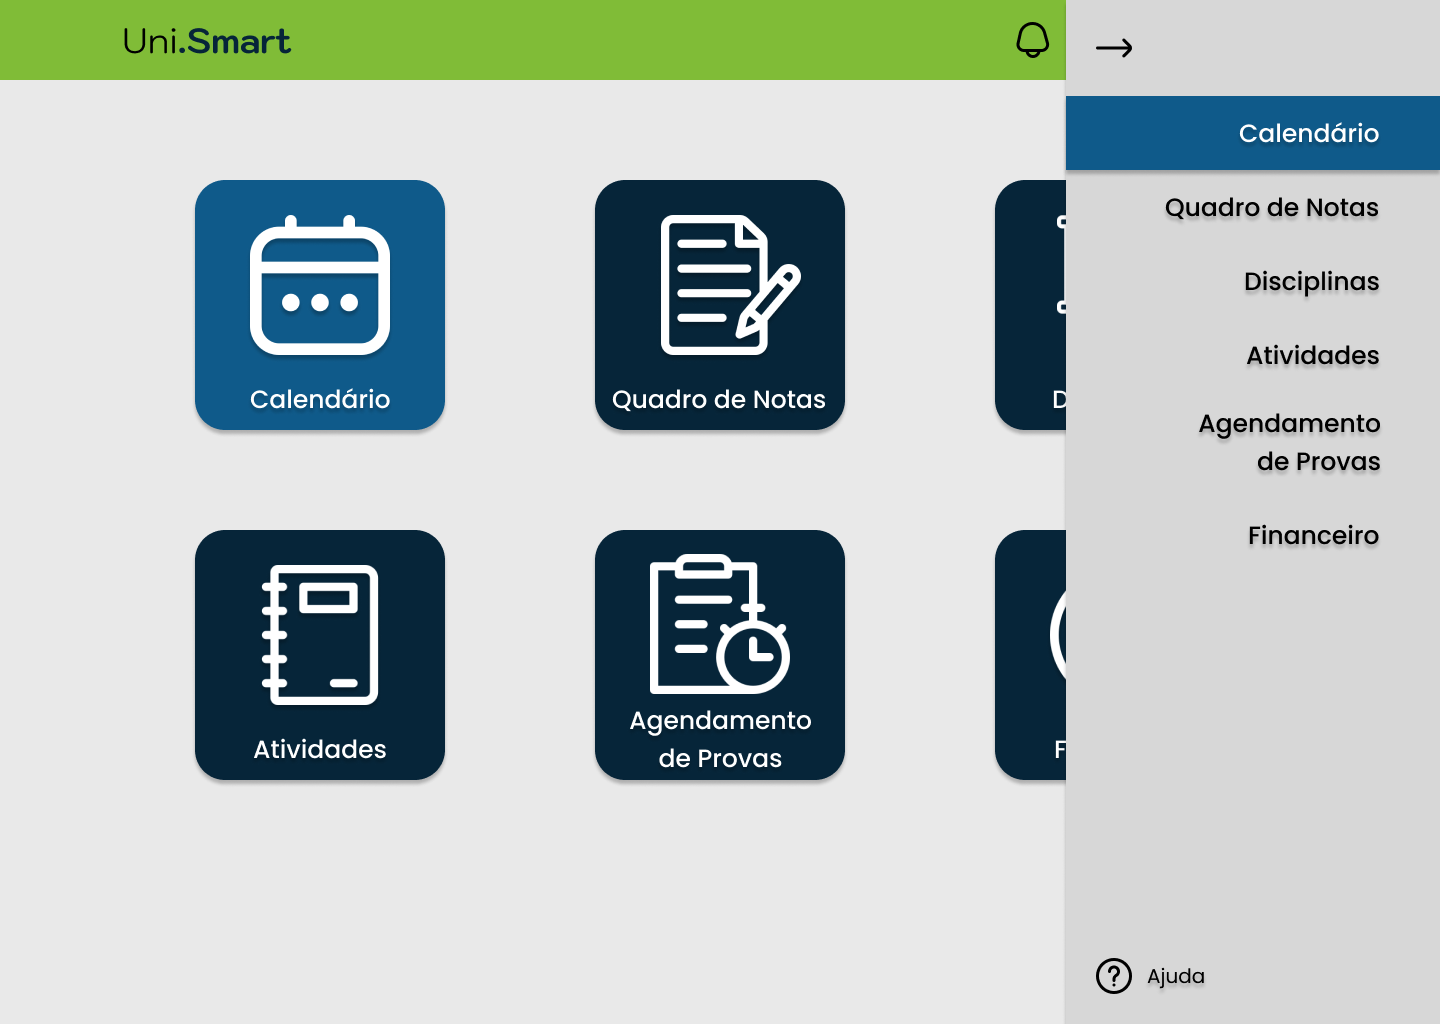
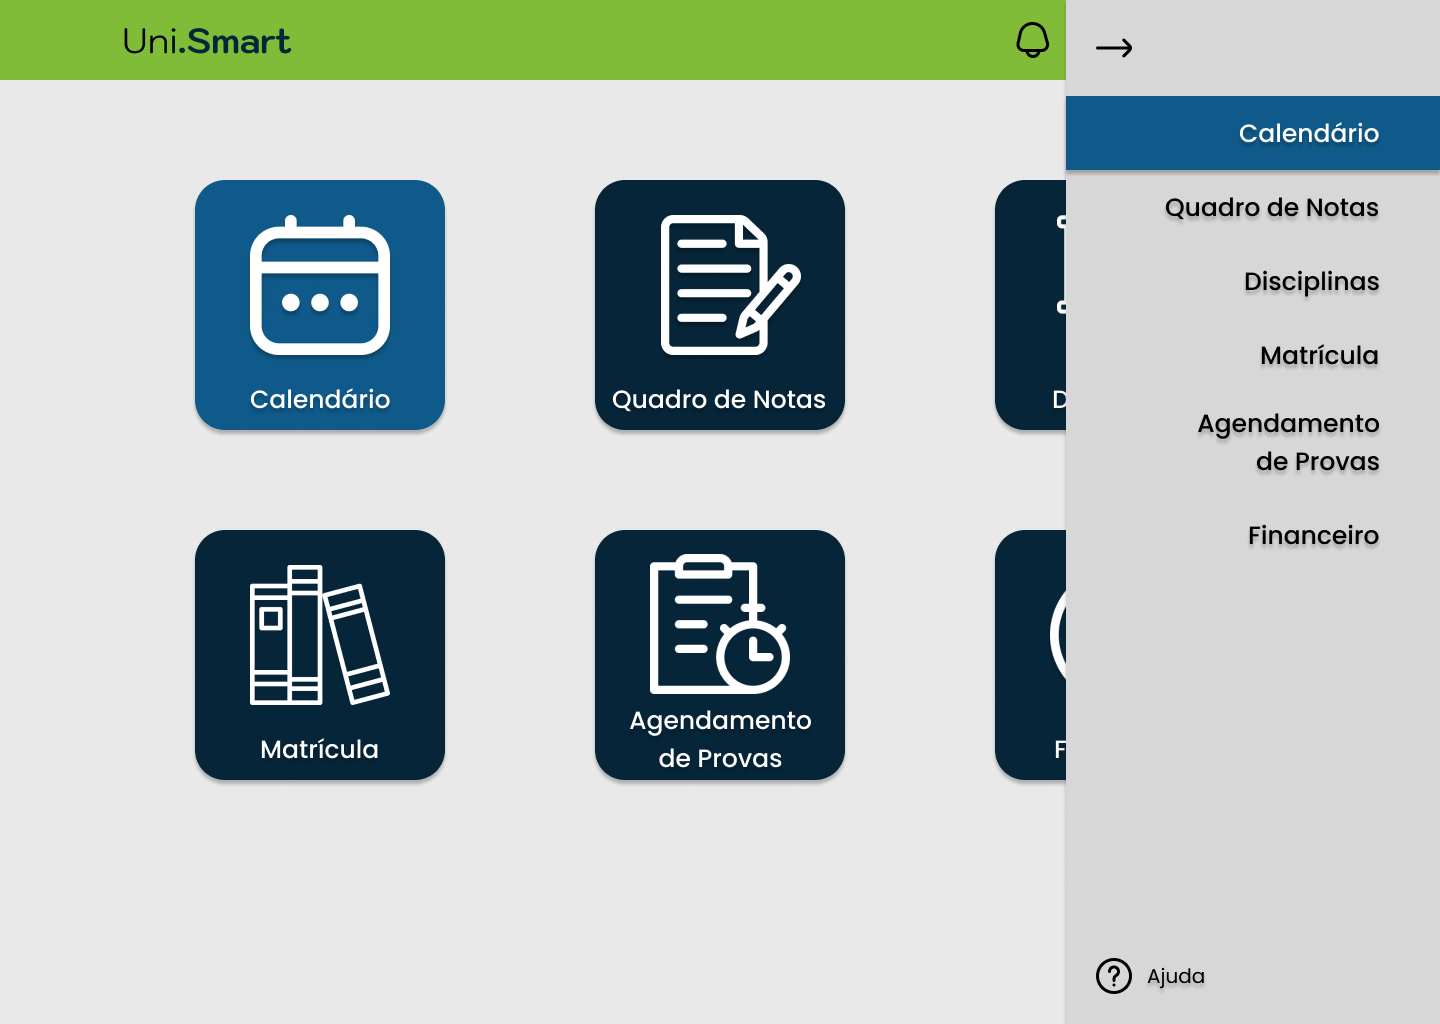
Mais telas finalizadas

diff --git a/README.md b/README.md
@@ -37,22 +37,39 @@ As telas da interface Web GUI foram desenvolvidas utilizando a ferramenta online
 
 ## Dashboard do Funcionário (Administrador)
 
-![Dashboard do Funcionário](<Protótipos/Figma/Dashboard (funcionário - menu aberto).png>)
-![Dashboard do Funcionário - Menu](<Protótipos/Figma/Dashboard (funcionário).png>)
-
-### Dashboard do Aluno
-
-![Dashboard do Aluno](<Protótipos/Figma/Dashboard (Aluno).png>)
-![Dashboard do Aluno - Menu](<Protótipos/Figma/Dashboard (Aluno - menu aberto).png>)
+![Dashboard do Funcionário](<Protótipos/Figma/Dashboard (funcionário).png>)
+![Dashboard do Funcionário - Menu](<Protótipos/Figma/Dashboard (funcionário - menu aberto).png>)
 
 ### Dashboard do Professor
 
 ![Dashboard do Professor](<Protótipos/Figma/Dashboard (professor).png>)
 ![Dashboard do Professor - Menu](<Protótipos/Figma/Dashboard (professor - menu aberto).png>)
 
+### Dashboard do Aluno
+
+![Dashboard do Aluno](<Protótipos/Figma/Dashboard (Aluno).png>)
+![Dashboard do Aluno - Menu](<Protótipos/Figma/Dashboard (Aluno - menu aberto).png>)
+
+### Quadro de Notas
+
+![Quadro de Notas](<Protótipos/Figma/Quadro de Notas.png>)
+![Quadro de Notas - Detalhes](<Protótipos/Figma/Quadro de Notas - Detalhes.png>)
+
 ### Calendário
 
 ![Calendário](Protótipos/Figma/Calendário.png)
+
+### Disciplinas
+
+![Disciplinas](Protótipos/Figma/Disciplinas.png)
+
+### Matrícula
+
+![Matrícula](Protótipos/Figma/Matricula.png)
+
+### Suporte
+
+![Suporte](Protótipos/Figma/Suporte.png)
 
 > [Apresentação de telas na plataforma](https://www.figma.com/proto/aO0cKZjGMOtKTbFmtgoUG5/Projeto-Integrador?type=design&node-id=26-60&t=qMezBdqddBhRHF38-1&scaling=min-zoom&page-id=0%3A1&mode=design)
 
